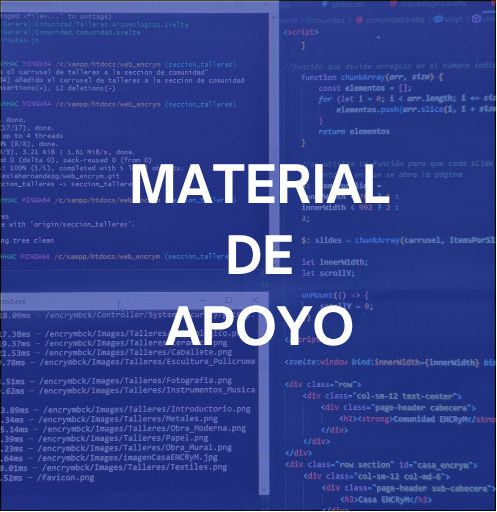
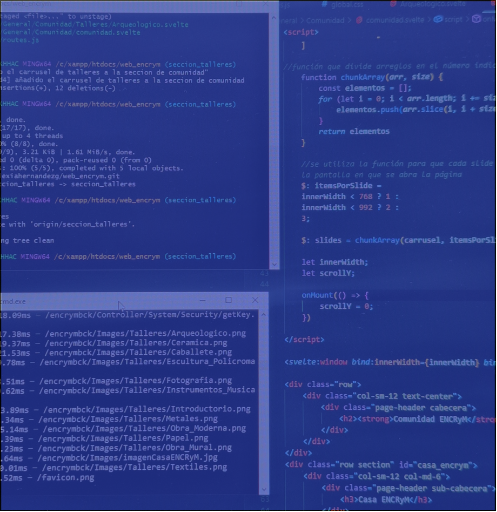
feat(inicio-alumno): añade anchor a material de apoyo

Changed region(s): [[0.2414, 0.3125, 0.7847, 0.4062], [0.332, 0.5938, 0.7243, 0.6875], [0.4527, 0.4375, 0.6036, 0.5625]]

diff --git a/templates/inicio-alumno.html b/templates/inicio-alumno.html
@@ -18,11 +18,9 @@
     </header>
 
     <main>
-        <!-- <div id="head"> -->
         <h1> Bienvenid@ $nombre-alummo </h1> <hr>
-            <!-- <a> <img src="../statics/imgs/foto-usuario.png" alt="foto de perfil" id="foto-usuario"class="logos"> </a> -->
-        <!-- </div> <hr> -->
 
+        <!-- card cuestionario -->
         <div class="row">
             <section class="card" id="formulario">
                 <div id="texto-form">
@@ -32,15 +30,17 @@
                 <a href="#" class="boton"> Click <span id="flecha"> ➨ </span> </a>
             </section>
 
+            <!-- card material de apoyo por modulos + estrategias de estudio -->
             <section class="card" id="material-apoyo">
-                <a href="#">
-                    <img src="../statics/imgs/codigo-azul.png" alt="codigo" id="cover"> 
-                    <!-- <h2 id="texto-mat"> MATERIAL DE APOYO </h2> -->
+                <a href="./material-apoyo.html">
+                    <img src="../statics/imgs/codigo-azul.png" alt="codigo" class="cover"> 
+                    <h2 class="texto-card"> MATERIAL DE APOYO </h2>
                 </a>
             </section>
         </div>
 
         <div class="row">
+            <!-- card apoyo psicológico -->
             <section class="card" id="apoyo-psic">
                 <p id="texto-psic"> <b> ¿Requieres asesoriamento psicológico?</b> Consulta el apoyo que te brinda nuestra escuela. </p>
                 <a href="#" class="boton"> Click <span id="flecha"> ➨ </span> </a>

diff --git a/statics/css/inicio-alumno.css b/statics/css/inicio-alumno.css
@@ -8,6 +8,10 @@ p {
     font-size: 15pt;
 }
 
+a {
+    text-decoration: none;
+}
+
 h1, h2 {
     color: #0218a4;
     padding-top: 10px;
@@ -48,30 +52,25 @@ main {
     text-align: center;
 }
 
-#foto-usuario {
-    position: absolute;
-    right: 0;
-    top: 1rem;
-}
-
 .logos {
     margin-left: 30px;
     margin-right: 30px;
     width: 55px;
 }
 
-/* color y tamaño de la barra superior en donde se muestran los logos */
-#barra-logos {
-    background-color: #0218a4;
-    height: 80px;
-    display: flex;
-    align-items: center;
+.cover {
+    width: 100%;
+    height: 400px;
+    object-fit: cover;
 }
 
-#texto-form {
-    font-weight: bold;
-    font-size: 16pt;
-    padding: 30px;
+.texto-card {
+    padding: 5%;
+    position: relative;
+    bottom: 20rem;
+    color: white;
+    text-transform: uppercase;
+    font-size: 35pt;
 }
 
 .boton {
@@ -94,10 +93,24 @@ main {
     left: 5.5rem;
 }
 
-#cover {
-    width: 100%;
-    height: 400px;
-    object-fit: cover;
+#barra-logos {
+    background-color: #0218a4;
+    height: 80px;
+    display: flex;
+    align-items: center;
+}
+
+#texto-form {
+    font-weight: bold;
+    font-size: 16pt;
+    padding: 30px;
+}
+
+
+#foto-usuario {
+    position: absolute;
+    right: 0;
+    top: 1rem;
 }
 
 #apoyo-psic {
@@ -122,4 +135,3 @@ main {
     font-size: 18pt;
     padding: 7%;
 }
-
